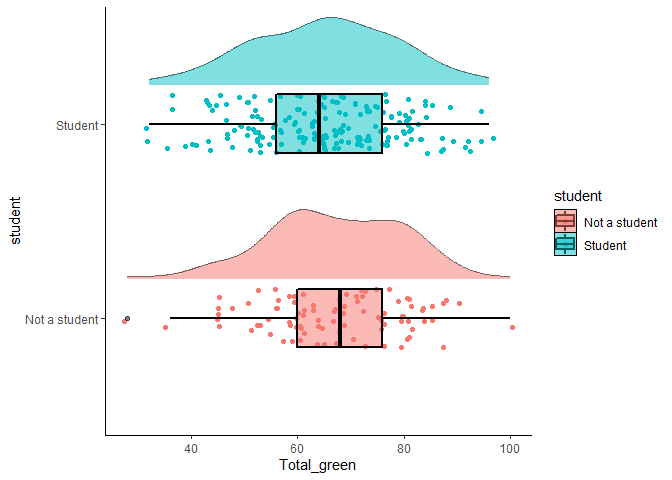
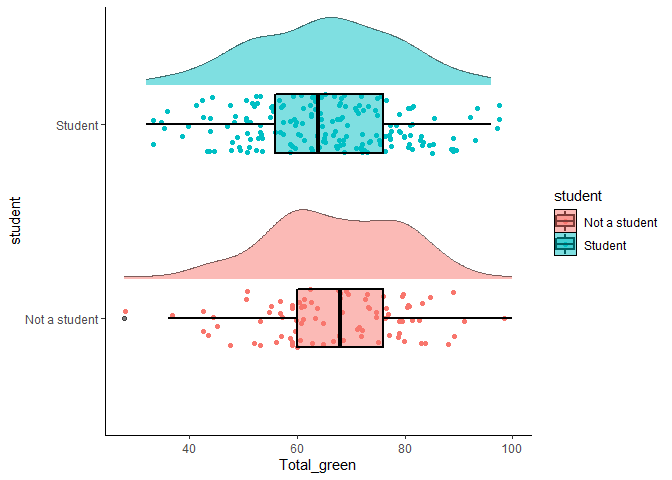
Final revision (minor)

diff --git a/HW03/HW3.html b/HW03/HW3.html
@@ -391,7 +391,7 @@ summary {
 <h3>Q1: Inspect the item responses (e.g., with graphs or by summarizing distinct values).</h3>
 <pre class="r"><code># Is anything unusual?
 
-Q1set = filter(green_data, id == 5549) #Searches id for value &quot;5549&quot; 
+Q1set &lt;- filter(green_data, id == 5549) #Searches id for value &quot;5549&quot; 
 Q1set.1 &lt;- as.data.frame(t(as.matrix(Q1set) #Flips columns and rows
                            )
                          )
@@ -843,7 +843,7 @@ grid.arrange(a,
                     alpha = .5,
                     position = position_nudge(y = .2)
                     )</code></pre>
[2 lines of base64/hex data omitted]
 <pre class="r"><code>#Overall, the plot does not seem to indicate a notable difference between students and non-students for the green reputation scale. 
 #However, the plot seems to show that students seem to have larger variance and a lower mean.</code></pre>
 </div>

diff --git a/HW03/HW3.md b/HW03/HW3.md
@@ -16,7 +16,7 @@ The dataset includes data from **students** and **non-students**.
 ``` r
 # Is anything unusual?
 
-Q1set = filter(green_data, id == 5549) #Searches id for value "5549" 
+Q1set <- filter(green_data, id == 5549) #Searches id for value "5549" 
 Q1set.1 <- as.data.frame(t(as.matrix(Q1set) #Flips columns and rows
                            )
                          )
